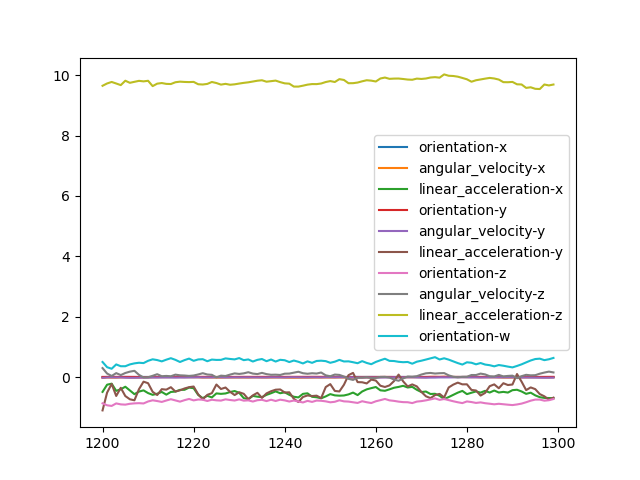
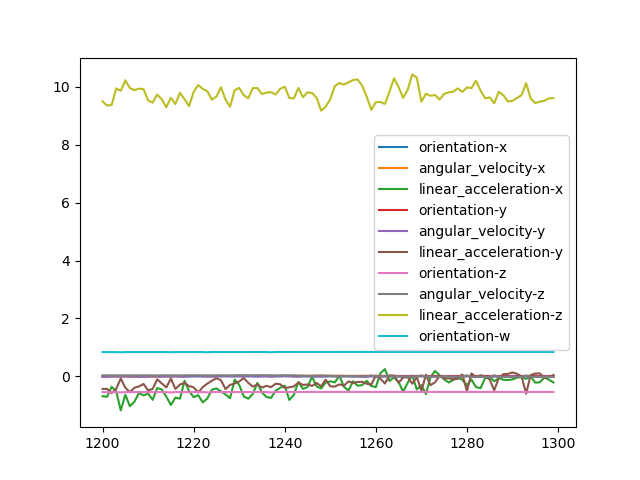
sort timestamp

diff --git a/get_physical_property.py b/get_physical_property.py
@@ -8,39 +8,62 @@ import re
 import matplotlib.pyplot as plt
 
 
-def construct_physical_property(data_path, imu_timestamps, speed_timestamps):
+def construct_physical_property(data_path, imu_timestamps, speed_timestamps, localizatoin_timestamps, debug=False):
     speed_df = pd.DataFrame(
         columns=["time", "speed"])
     imu_df = pd.DataFrame(
         columns=["time", "o_x", "o_y", "o_z", "o_w", "w_x", "w_y", "w_z", "a_x", "a_y", "a_z"])
-    for i,  timestamp in enumerate(speed_timestamps):
+    for timestamp in speed_timestamps:
         df = pd.read_csv(os.path.join(
             data_path, "other_data", f"{timestamp}_raw_speed.csv"), header=None)
         time = datetime.datetime.fromtimestamp(
             float(timestamp.replace("_", ".")))
         speed_df.loc[len(speed_df)] = [time, df[0][0]]
-    print(speed_df)
-    for i, timestamp in enumerate(imu_timestamps):
+    speed_df = speed_df.sort_values(by=['time'], ignore_index=True)
+    if debug:
+        print(speed_df)
+    for timestamp in imu_timestamps:
         df = pd.read_csv(os.path.join(
             data_path, "other_data", f"{timestamp}_raw_imu.csv"), header=None)
         time = datetime.datetime.fromtimestamp(
             float(timestamp.replace("_", ".")))
         imu_df.loc[len(imu_df)] = [time, df[0][0], df[1][0], df[2][0], df[3][0],
                                    df[0][1], df[1][1], df[2][1], df[0][2], df[1][2], df[2][2]]
-    for section in range(len(imu_df)//100):
-        f = plt.figure(section)
-        for index,  target_column in enumerate(["x", "y", "z", "w"]):
-            plt.plot(imu_df[f"o_{target_column}"][section*100:(section+1)*100].ewm(span=10).mean(),
-                     label=f"orientation-{target_column}")
-            if target_column == "w":
-                continue
-            plt.plot(imu_df[f"w_{target_column}"][section*100:(section+1)*100].ewm(span=10).mean(),
-                     label=f"angular_velocity-{target_column}")
-            plt.plot(imu_df[f"a_{target_column}"][section*100:(section+1)*100].ewm(span=10).mean(),
-                     label=f"linear_acceleration-{target_column}")
+    imu_df = imu_df.sort_values(by=['time'], ignore_index=True)
+    if debug:
+        print(imu_df)
+    if debug:
+        for section in range(len(imu_df)//100):
+            f = plt.figure(section)
+            for index,  target_column in enumerate(["x", "y", "z", "w"]):
+                plt.plot(imu_df[f"o_{target_column}"][section*100:(section+1)*100],
+                         label=f"orientation-{target_column}")
+                if target_column == "w":
+                    continue
+                plt.plot(imu_df[f"w_{target_column}"][section*100:(section+1)*100],
+                         label=f"angular_velocity-{target_column}")
+                plt.plot(imu_df[f"a_{target_column}"][section*100:(section+1)*100],
+                         label=f"linear_acceleration-{target_column}")
+            plt.legend()
+            plt.savefig(os.path.join(
+                data_path, f"physics-analysis-{section}.png"))
+    groundtruth_df = pd.DataFrame(columns=["time", "pos_x", "pos_y"])
+    for timestamp in localization_timestamps:
+        df = pd.read_csv(os.path.join(data_path, "dataset",
+                         timestamp, "gound_turth_pose.csv"), header=None)
+        time = datetime.datetime.fromtimestamp(
+            float(timestamp.replace("_", ".")))
+        groundtruth_df.loc[len(groundtruth_df)] = [time, df[0][0], df[1][0]]
+    groundtruth_df = groundtruth_df.sort_values(by=['time'], ignore_index=True)
+    if debug:
+        print(groundtruth_df)
+    if debug:
+        f = plt.figure()
+        plt.plot(groundtruth_df["pos_x"], label="real_position-x")
+        plt.plot(groundtruth_df["pos_y"], label="real_position-y")
         plt.legend()
         plt.savefig(os.path.join(
-            data_path, f"physics-analysis-{section}.png"))
+            data_path, f"physics-analysis.png"))
 
 
 if __name__ == '__main__':
@@ -50,6 +73,7 @@ if __name__ == '__main__':
 
     speed_timestamps = []
     imu_timestamps = []
+    localization_timestamps = []
 
     for file_entry in list(os.scandir(os.path.join(args.data_path, "other_data"))):
         filename = file_entry.name
@@ -57,5 +81,8 @@ if __name__ == '__main__':
             imu_timestamps.append(re.findall(r"\d+_\d+", filename)[0])
         if filename.endswith("raw_speed.csv"):
             speed_timestamps.append(re.findall(r"\d+_\d+", filename)[0])
+    with open(os.path.join(args.data_path, "localization_timestamp.txt")) as reader:
+        for line in reader.readlines():
+            localization_timestamps.append(line.replace("\n", ""))
     construct_physical_property(
-        args.data_path, imu_timestamps, speed_timestamps)
+        args.data_path, imu_timestamps, speed_timestamps,  localization_timestamps, True)
